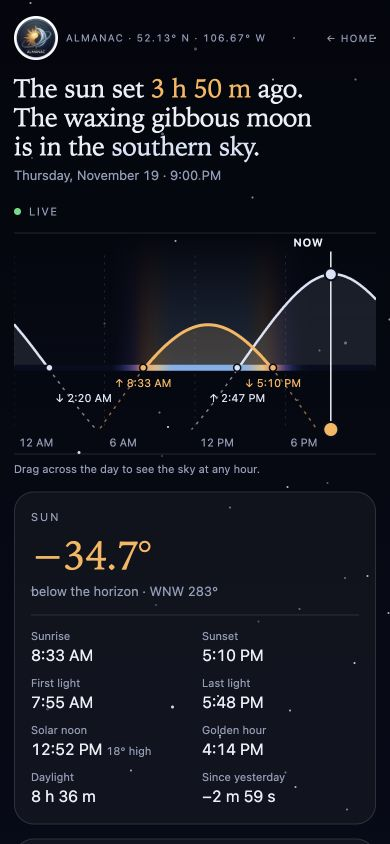
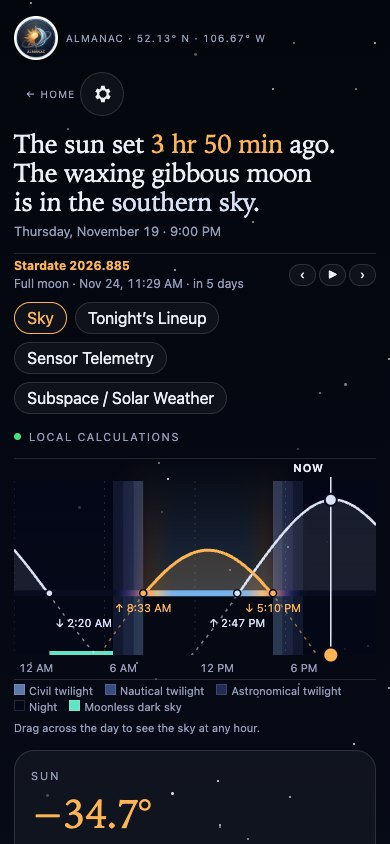
Refresh dashboard screenshots for GitHub, HACS and Marketplace

diff --git a/custom_components/almanac/const.py b/custom_components/almanac/const.py
@@ -1,4 +1,4 @@
 """Almanac constants."""
 DOMAIN = "almanac"
-VERSION = "2.10.1"
+VERSION = "2.10.2"
 CARD_URL = f"/almanac/almanac-sky-card.js?v={VERSION}"

diff --git a/README.md b/README.md
@@ -11,7 +11,7 @@ A local sun and moon integration for Home Assistant, with continuously updated s
 
 ## Watch Almanac in 30 seconds
 
-[![A 30-second preview of Almanac’s sky dashboard, Home Assistant automations, themes and languages](assets/video/almanac-overview.gif)](https://github.com/yanke7/Home-Assistant-Almanac/releases/download/v2.10.1/almanac-overview-1080p.mp4)
+[![A 30-second preview of Almanac’s sky dashboard, Home Assistant automations, themes and languages](https://raw.githubusercontent.com/yanke7/Home-Assistant-Almanac/main/assets/video/almanac-overview.gif)](https://github.com/yanke7/Home-Assistant-Almanac/releases/download/v2.10.1/almanac-overview-1080p.mp4)
 
 [Open the 1080p video with sound](https://github.com/yanke7/Home-Assistant-Almanac/releases/download/v2.10.1/almanac-overview-1080p.mp4)
 
@@ -33,7 +33,7 @@ Almanac uses the location and time zone already configured in Home Assistant. Su
 
 ## Theme gallery
 
-Choose a theme with the gear on the card. These Almanac v2.10.1 screenshots show the same sunset in Saskatoon so you can compare palettes. The preview uses local calculations. Select an image to see it full size.
+Choose a theme with the gear on the card. These screenshots show the same sunset in Saskatoon so you can compare palettes. The preview uses local calculations. Select an image to see it full size.
 
 ### Star Trek
 
@@ -58,6 +58,22 @@ Choose a theme with the gear on the card. These Almanac v2.10.1 screenshots show
 This preview shows the fallback colours. With the Appearance dashboard resource loaded, Almanac follows your shared palette, font and text size.
 
 [![Follow Appearance dashboard using fallback colours](https://raw.githubusercontent.com/yanke7/Home-Assistant-Almanac/main/assets/screenshots/themes/appearance.jpg)](https://raw.githubusercontent.com/yanke7/Home-Assistant-Almanac/main/assets/screenshots/themes/appearance.jpg)
+
+## Observing tools
+
+These screenshots show the current dashboard tabs. Sensor Telemetry and Solar Weather use sample readings.
+
+### Tonight’s Lineup
+
+![Planet rise, transit, and set times, estimated brightness, and visibility](https://raw.githubusercontent.com/yanke7/Home-Assistant-Almanac/main/assets/screenshots/tonights-lineup.jpg)
+
+### Sensor Telemetry
+
+![Cloud cover, temperature, dew point, and a condensation warning](https://raw.githubusercontent.com/yanke7/Home-Assistant-Almanac/main/assets/screenshots/sensor-telemetry.jpg)
+
+### Subspace / Solar Weather
+
+![NOAA Kp, solar wind speed, southward Bz, and a possible aurora alert](https://raw.githubusercontent.com/yanke7/Home-Assistant-Almanac/main/assets/screenshots/solar-weather.jpg)
 
 ## Watch the sky change
 
